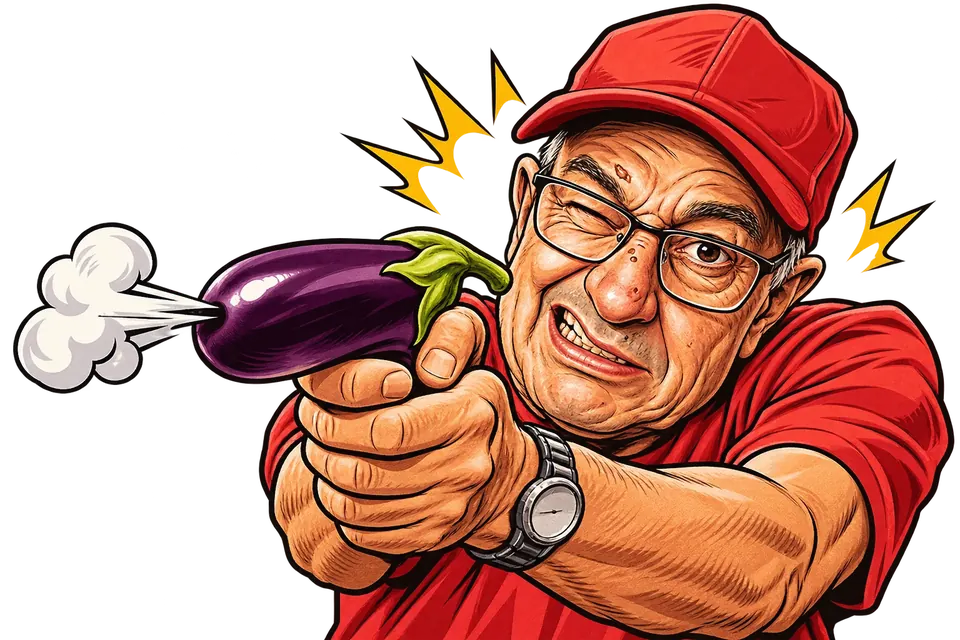
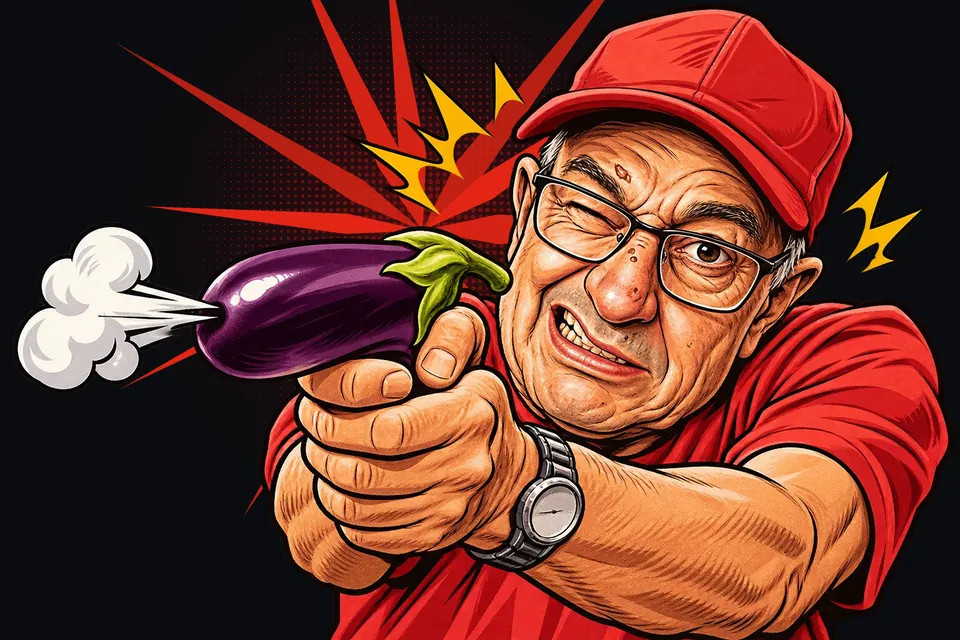
Papo Reto: fundo do troféu Falou Merda aplicado em todas as artes
O fundo do troféu do Falou Merda (preto com brilho vermelho, retícula e
explosão de raios) foi recriado e aplicado nas artes do Sábio (figura
recortada do fundo liso original) e do Bala do Véio (fundo transparente).
A arte horizontal passa a ter cantos arredondados, como as quadradas.

Claude-Session: https://claude.ai/code/session_01W1pgBGMPMKdA9gTW2KLxm7

diff --git a/src/papo-reto/components/RankingBoard.tsx b/src/papo-reto/components/RankingBoard.tsx
@@ -161,7 +161,7 @@ export function RankingBoard({
         ) : null}
         {illustration ? (
           // Ilustração grande do ranking (troféu). No desktop ocupa a coluna fixa ao lado da lista.
-          // Respeita o formato do arquivo: quadradas em selo arredondado; horizontais (ex.: fundo transparente) inteiras.
+          // Respeita o formato do arquivo: quadradas em selo arredondado; horizontais inteiras, sem corte.
           <Image
             src={illustration.src}
             alt={copy.illustrationAlt ?? ""}
@@ -171,7 +171,7 @@ export function RankingBoard({
             loading="eager"
             className={
               wideIllustration
-                ? "mx-auto mt-5 h-auto w-full max-w-[480px] lg:mx-0 lg:max-w-none"
+                ? "mx-auto mt-5 h-auto w-full max-w-[480px] rounded-3xl lg:mx-0 lg:max-w-none"
                 : "mx-auto mt-5 h-auto w-full max-w-[240px] rounded-3xl sm:max-w-[300px] lg:mx-0 lg:max-w-[380px]"
             }
           />
